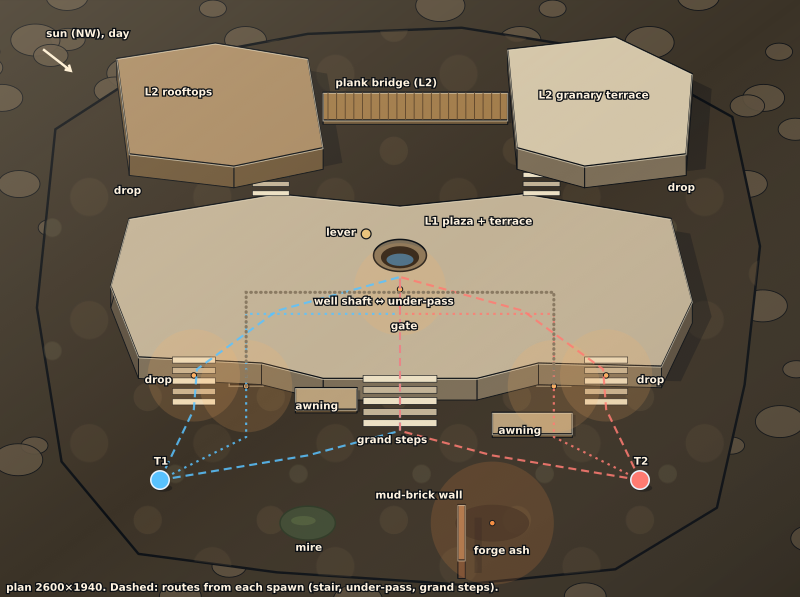
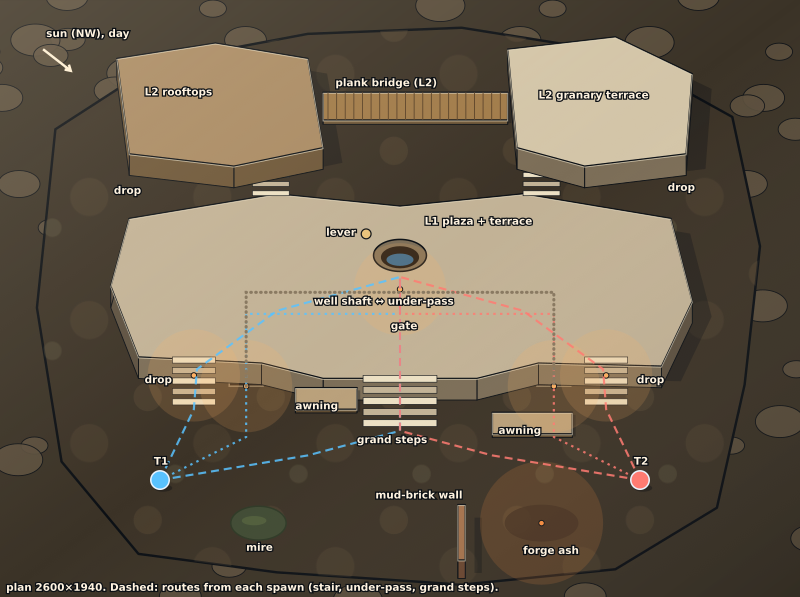
#3276: Sandstone: zones clear of the breakable wall

Changed region(s): [[0.5312, 0.7538, 0.75, 0.995], [0.3125, 0.8442, 0.4062, 0.9347]]

diff --git a/docs/art/3072-sandstone-steps.md b/docs/art/3072-sandstone-steps.md
@@ -26,8 +26,8 @@ the place (a terraced desert town on a hill) is kept.
 - **Elements:** a brass **lever** on the plaza at (1190,830) works the **gate** in the
   under-pass at (1300,1020) (it stands at the shaft foot: shut, the under-pass is a dead end for both teams alike, so the stair (6.2 s) and the grand steps (7.2 s) are the two routes, equal for both; open, the under-pass links both lanes to the shaft); a **mud-brick breakable
   wall** across the south alley at x=1500, where a straight L0 walk between spawns would run;
-  zones `mire` (west cistern seep, at (1000,1700)) and `scorched` (east forge ash, at (1600,1700)),
-  mirrored, on the south edge of the street: off all three routes and well clear of both spawns
+  zones `mire` (west cistern seep, at (840,1700)) and `scorched` (east forge ash, at (1760,1700)),
+  mirrored about the plaza axis, 120 u clear of the breakable wall, on the south edge of the street: off all three routes and well clear of both spawns
   (≥ 130 u from any route, ≥ 400 u from a spawn); a smoke vent is the forge's atmosphere.
 - **Light:** the **Day** row (visual-style §2): sun from the NW, 50°, `#fff1d6` 0.55, ambient
   `#b0bcd4` 0.45; hot reads from the sand, not from dimming. Local lights: a torch (`#ffb060`,
